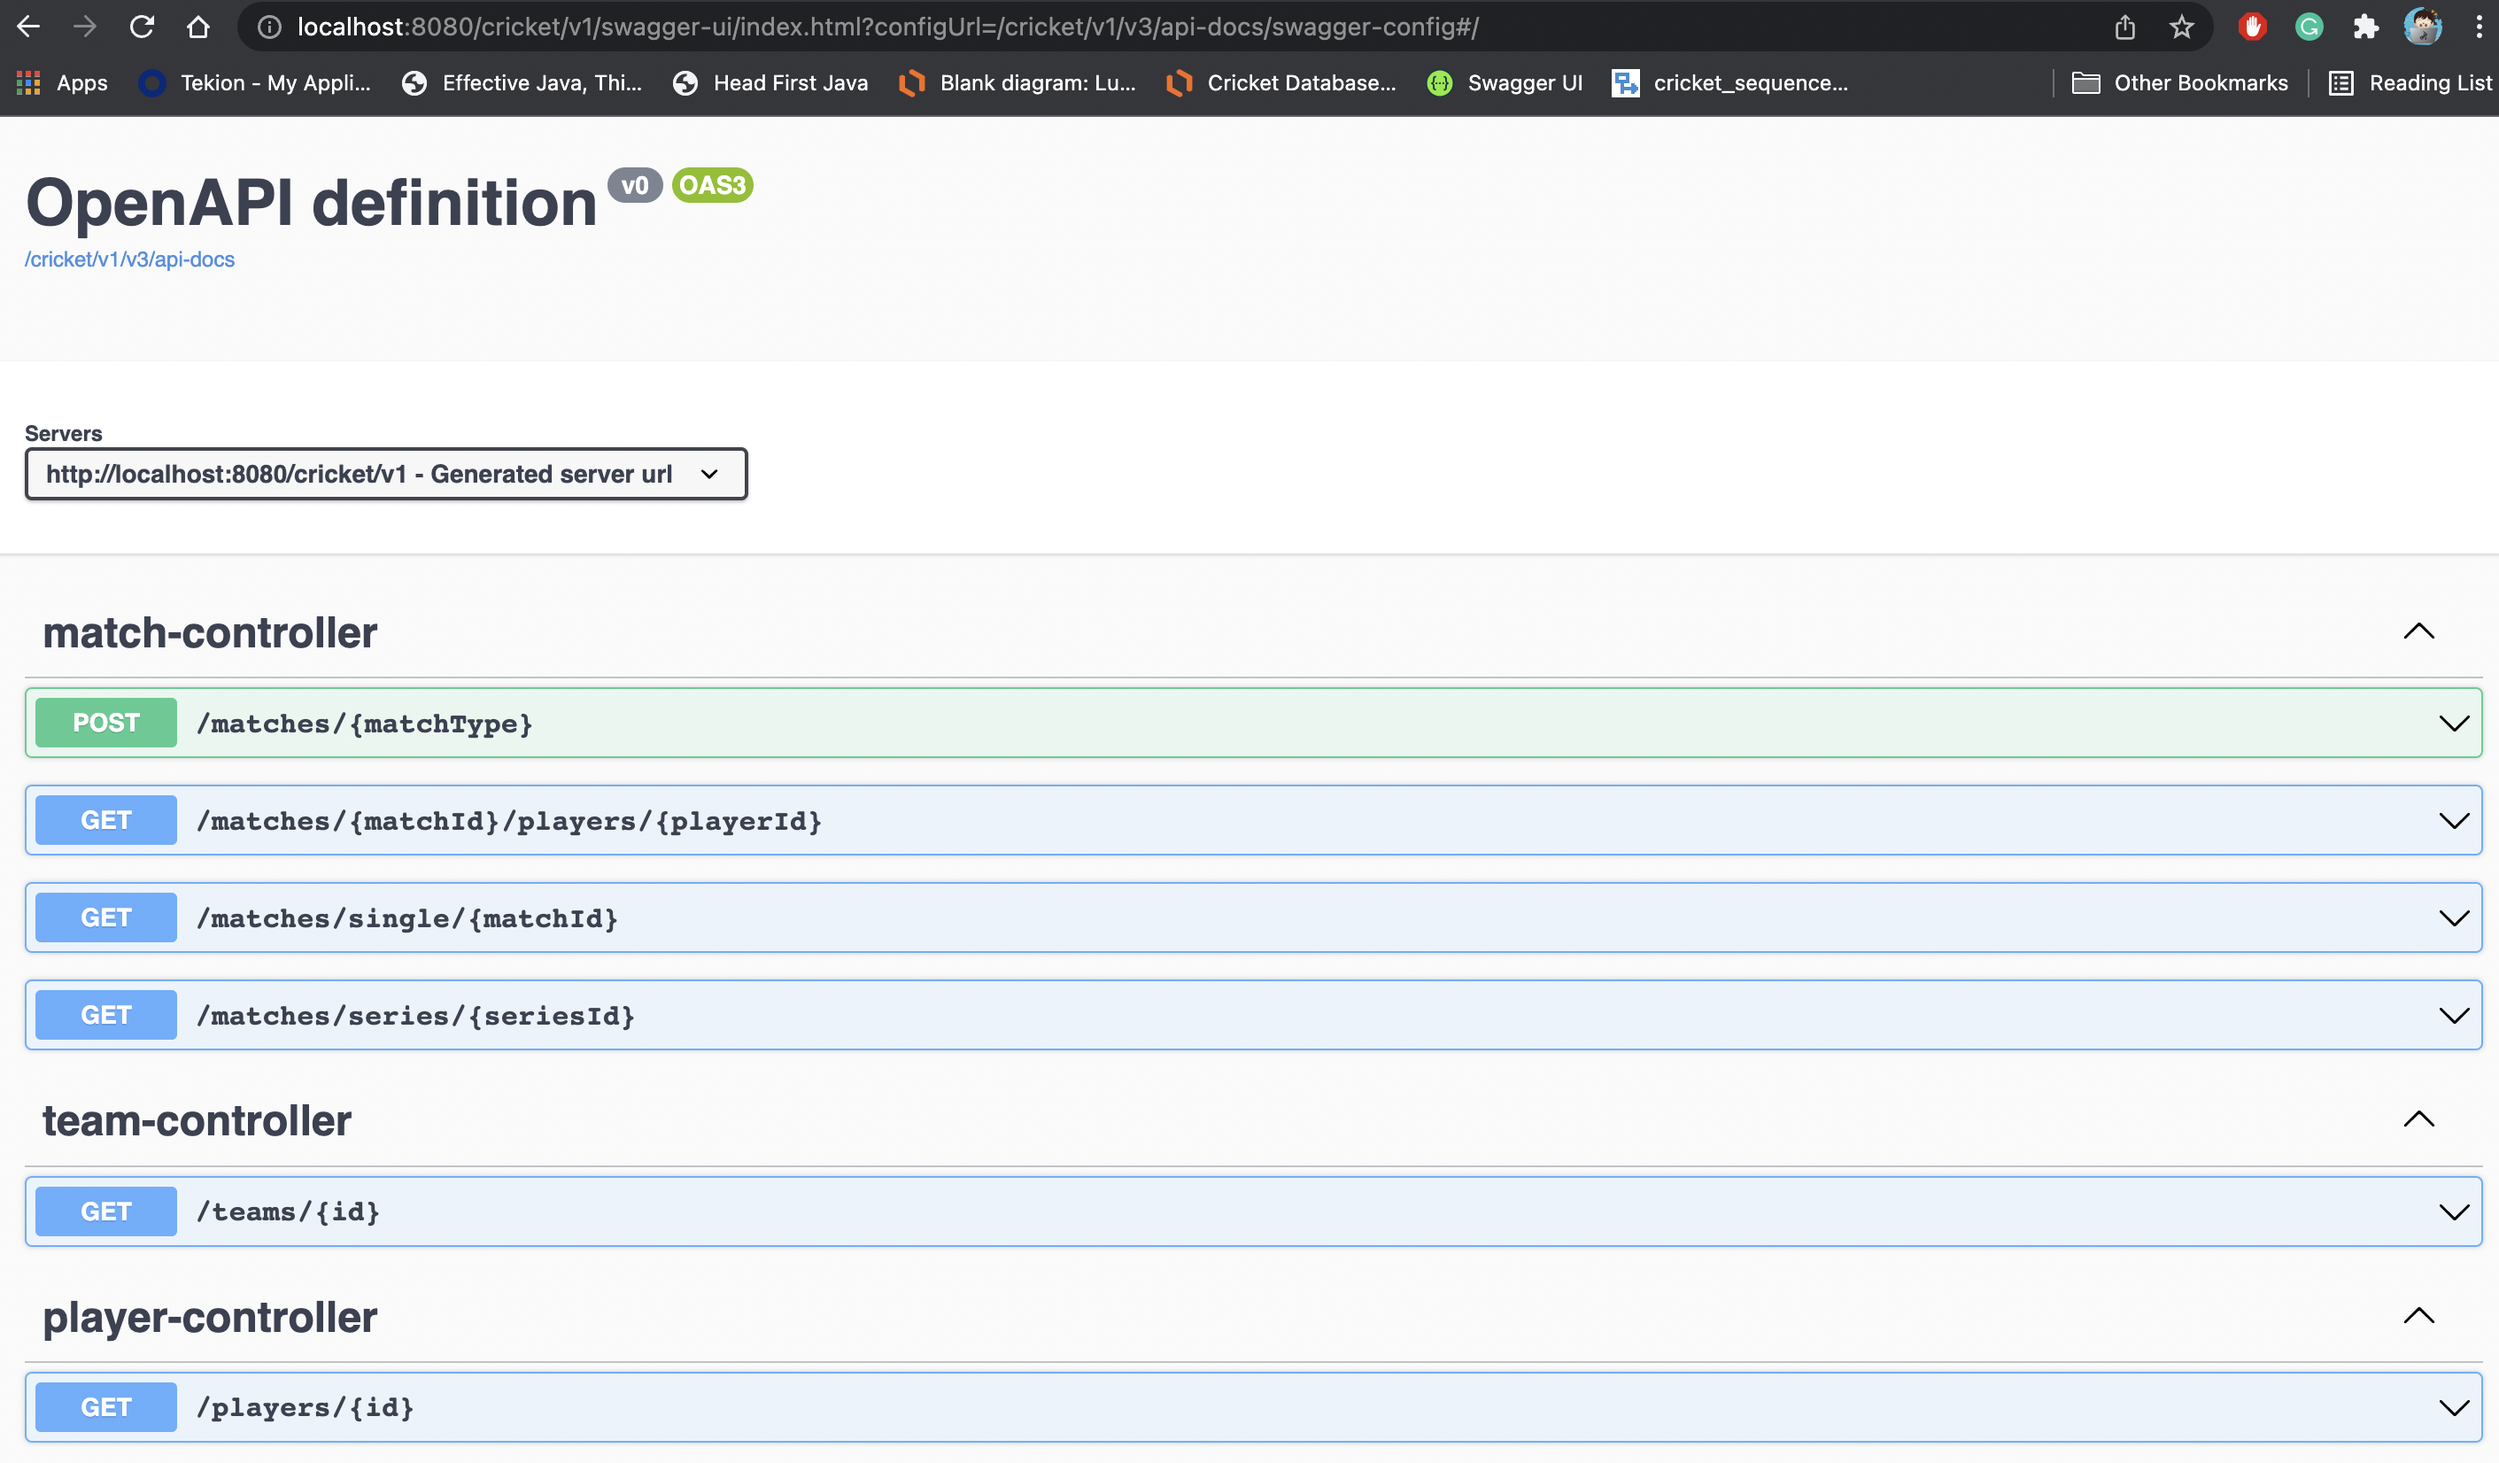
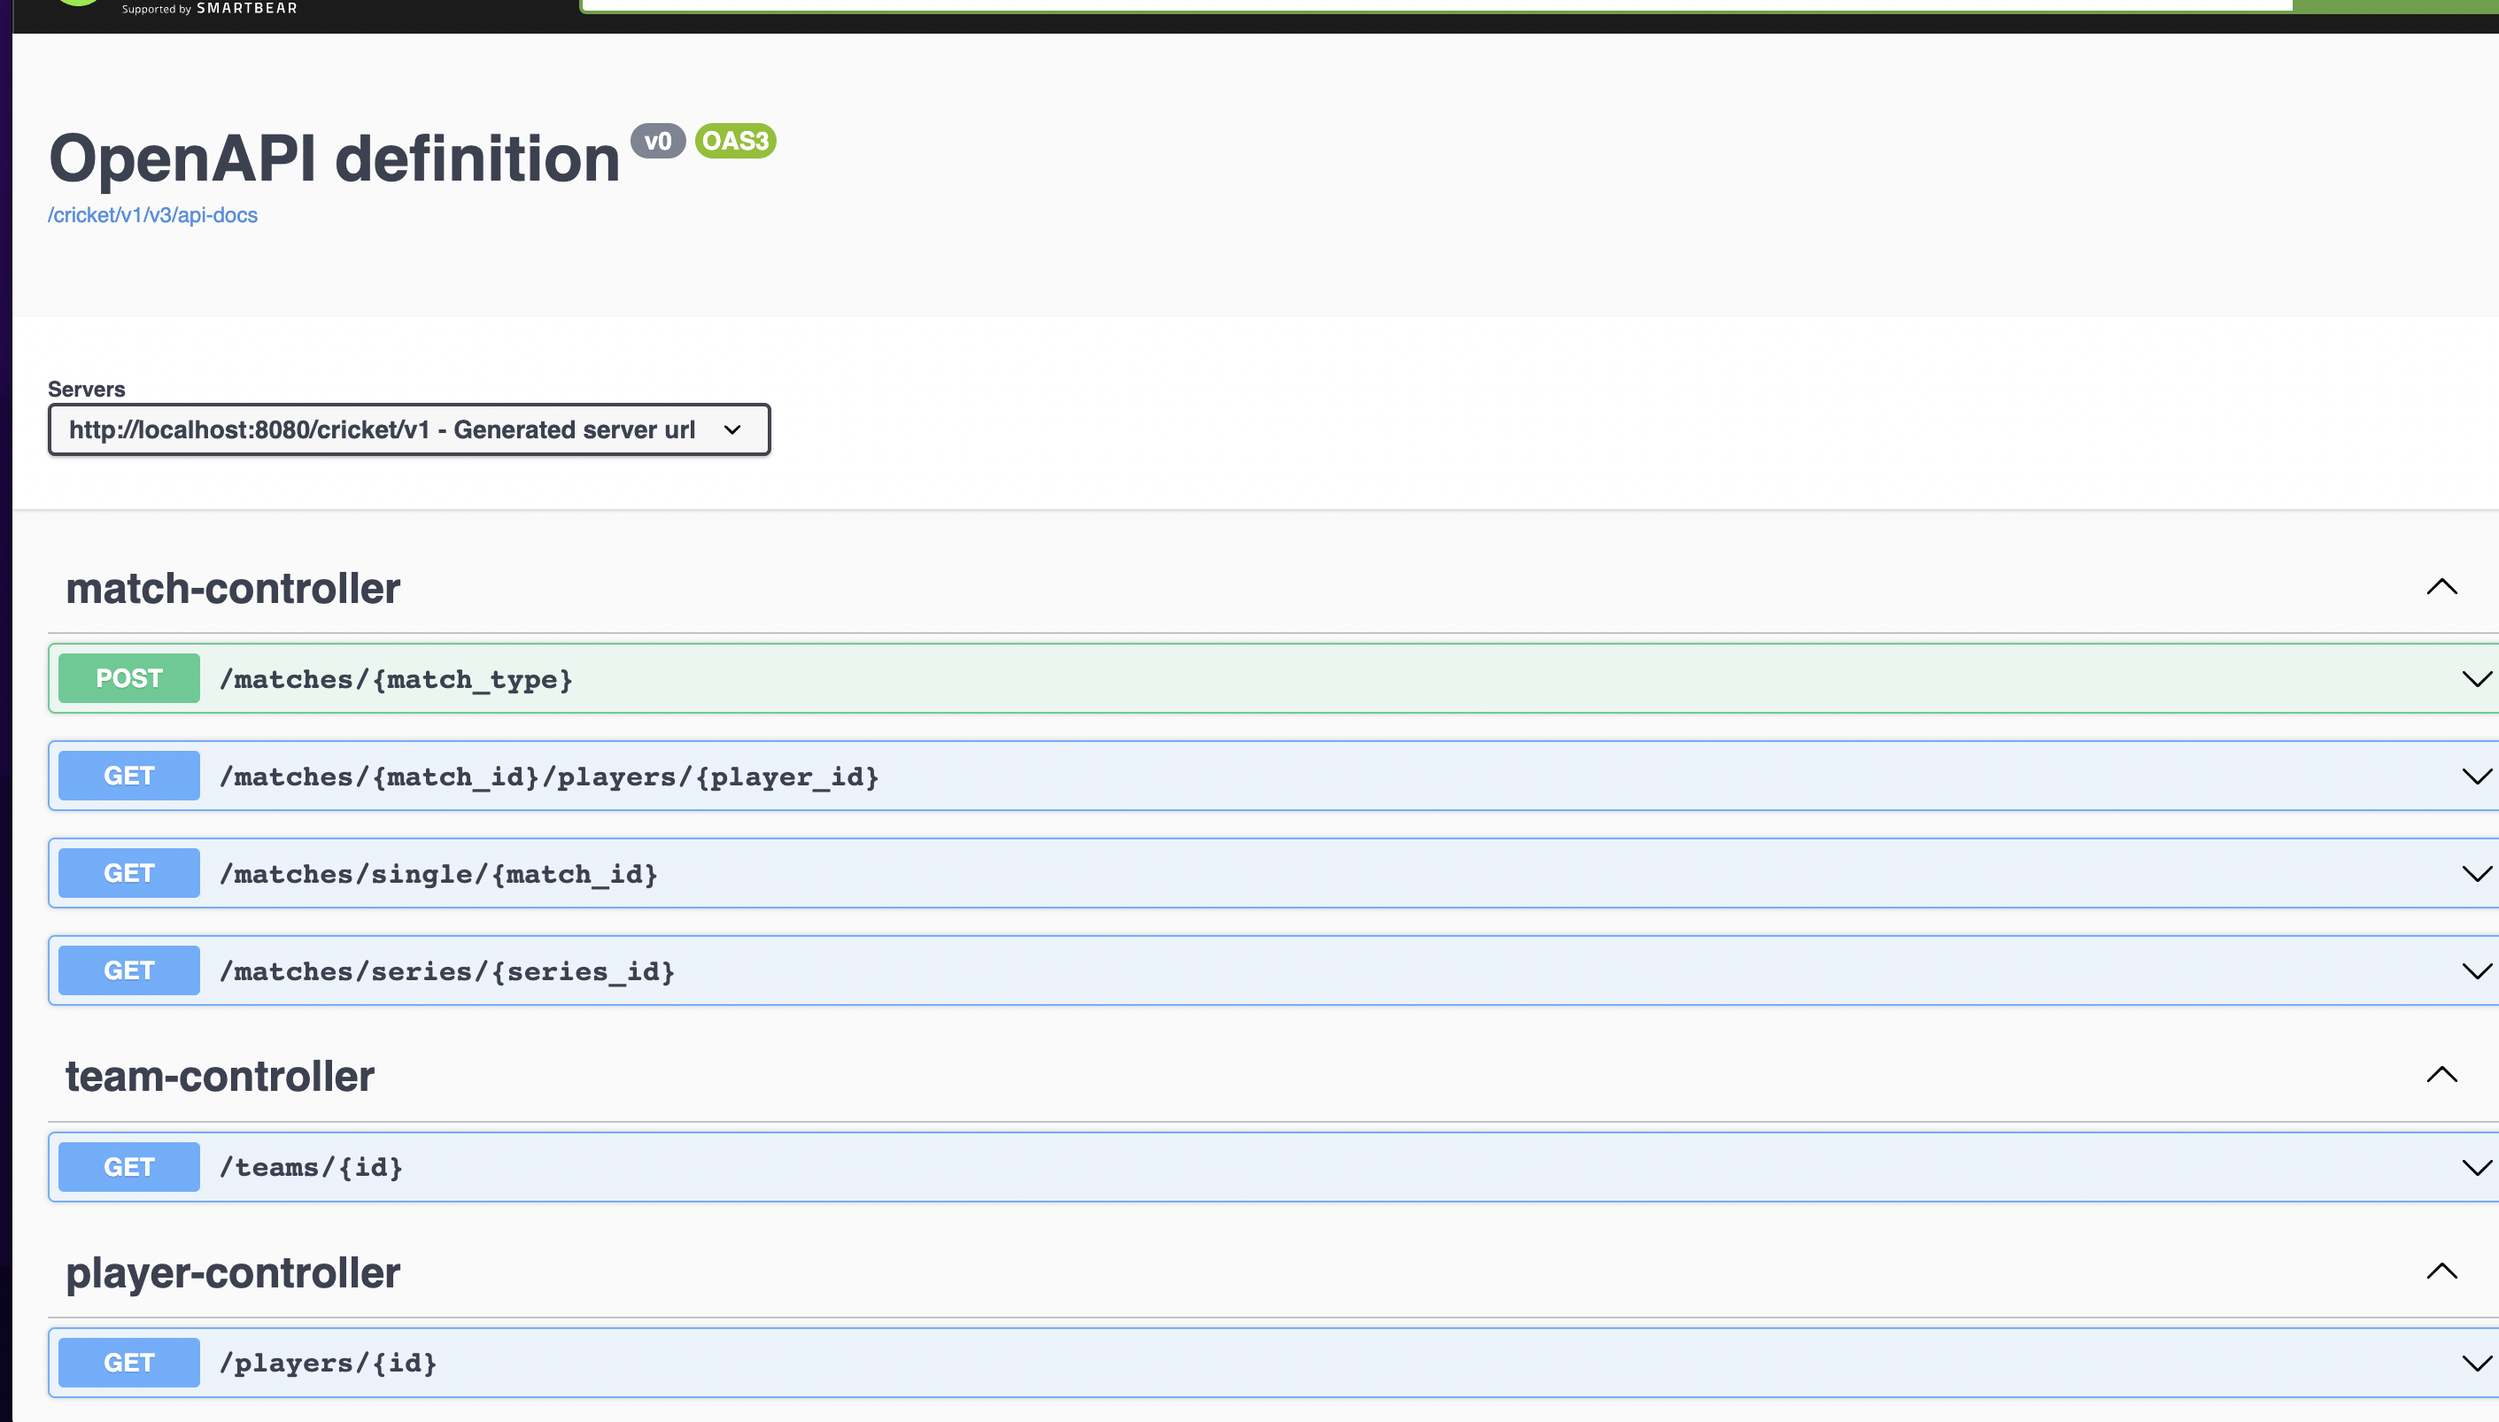
added load testing results

diff --git a/src/main/java/com/tekion/cricket/controllers/MatchController.java b/src/main/java/com/tekion/cricket/controllers/MatchController.java
@@ -18,8 +18,8 @@ import java.util.Map;
 @RequestMapping(path="/matches")
 public class MatchController {
 
-    @PostMapping("{matchType}")
-    public ResponseEntity<Map<String,Object>> startMatch(@PathVariable("matchType") MatchType matchType, @RequestBody MatchRequest data, @RequestParam(name="number_of_matches",required = false, defaultValue = "1") String totalGames)
+    @PostMapping("{match_type}")
+    public ResponseEntity<Map<String,Object>> startMatch(@PathVariable("match_type") MatchType matchType, @RequestBody MatchRequest data, @RequestParam(name="number_of_matches",required = false, defaultValue = "1") String totalGames)
     {
         int overs = data.getNumberOfOvers();
         String firstTeamName = data.getFirstTeamName();
@@ -33,19 +33,19 @@ public class MatchController {
     }
 
 
-    @GetMapping("single/{matchId}")
-    public MatchDb getMatch(@PathVariable(name="matchId") int matchId) throws SQLException, ClassNotFoundException {
+    @GetMapping("single/{match_id}")
+    public MatchDb getMatch(@PathVariable(name="match_id") int matchId) throws SQLException, ClassNotFoundException {
         return MatchRepository.getMatchById(matchId);
     }
 
 
-    @GetMapping("series/{seriesId}")
-    public SeriesDb getSeries(@PathVariable(name="seriesId") int seriesId) throws SQLException, ClassNotFoundException {
+    @GetMapping("series/{series_id}")
+    public SeriesDb getSeries(@PathVariable(name="series_id") int seriesId) throws SQLException, ClassNotFoundException {
         return SeriesRepository.getSeriesById(seriesId);
     }
 
-    @GetMapping("{matchId}/players/{playerId}")
-    public PlayerDb getPlayerData(@PathVariable int matchId, @PathVariable int playerId) throws SQLException, ClassNotFoundException {
+    @GetMapping("{match_id}/players/{player_id}")
+    public PlayerDb getPlayerData(@PathVariable(name="match_id")  int matchId, @PathVariable(name="player_id") int playerId) throws SQLException, ClassNotFoundException {
         return PlayerRepository.getPlayerStats(matchId,playerId);
     }
 

diff --git a/README.md b/README.md
@@ -83,3 +83,22 @@ for each ball print ‘bowler’ to ‘batsmen’ and the result of the ball.
 
 ### swagger api:
 ![](src/main/java/swagger_apis.png)
+
+### Load Testing Simulations Result
+* below are the results of a load testing simulations on the
+  given apis.
+* Load testing is still in progress. will keep on updating results.
+
+
+#### for url ('/matches/{match_type}')
+![](src//main/resources/simulations/playMatchSimulation.png)
+
+
+#### for url ('/matches/single/{match_id}')
+![](src//main/resources/simulations/getMatchSimulation.png)
+
+
+#### for url ('/matches/{match_id}/players/{player_id}'')
+![](src//main/resources/simulations/getPlayerSimulation.png)
+
+
